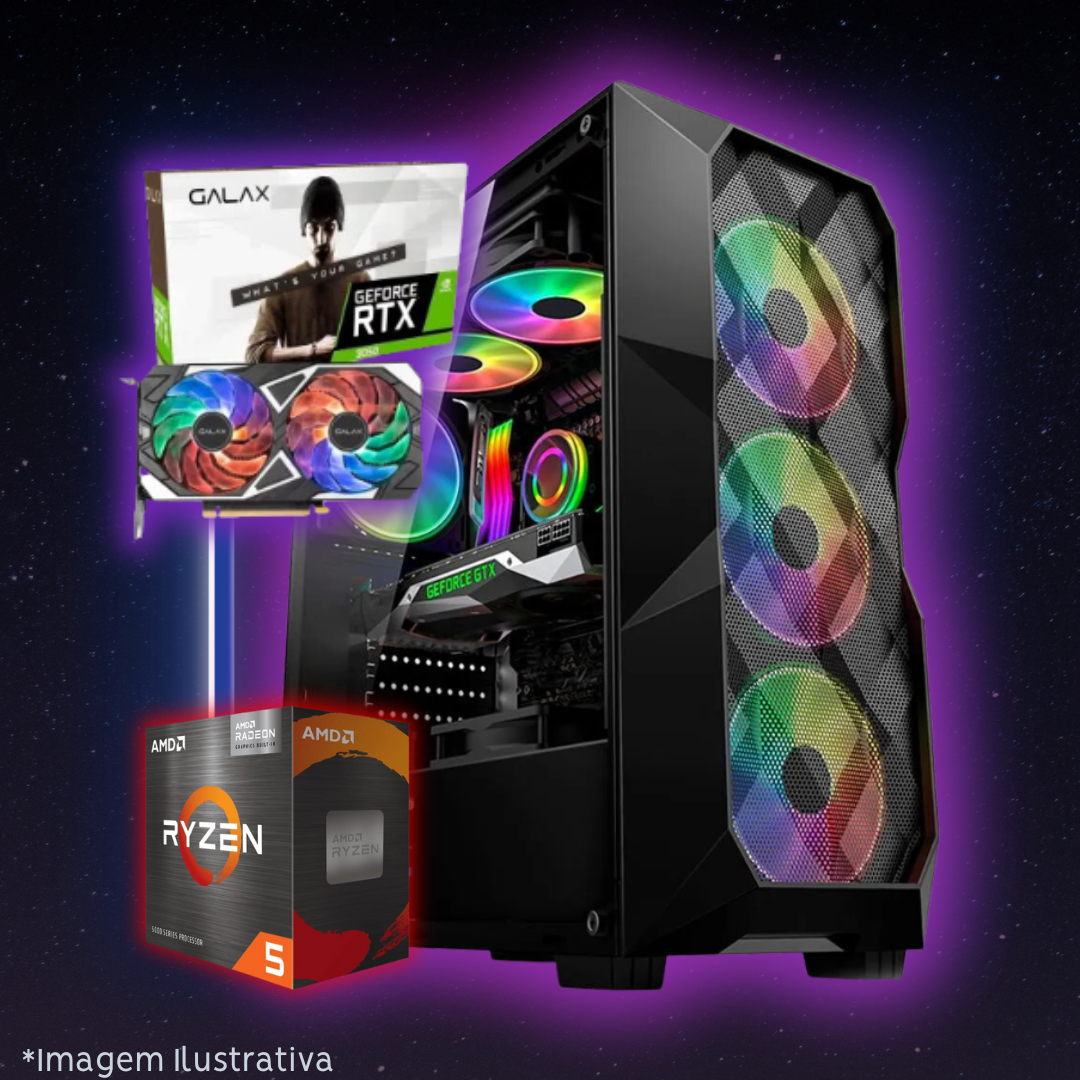
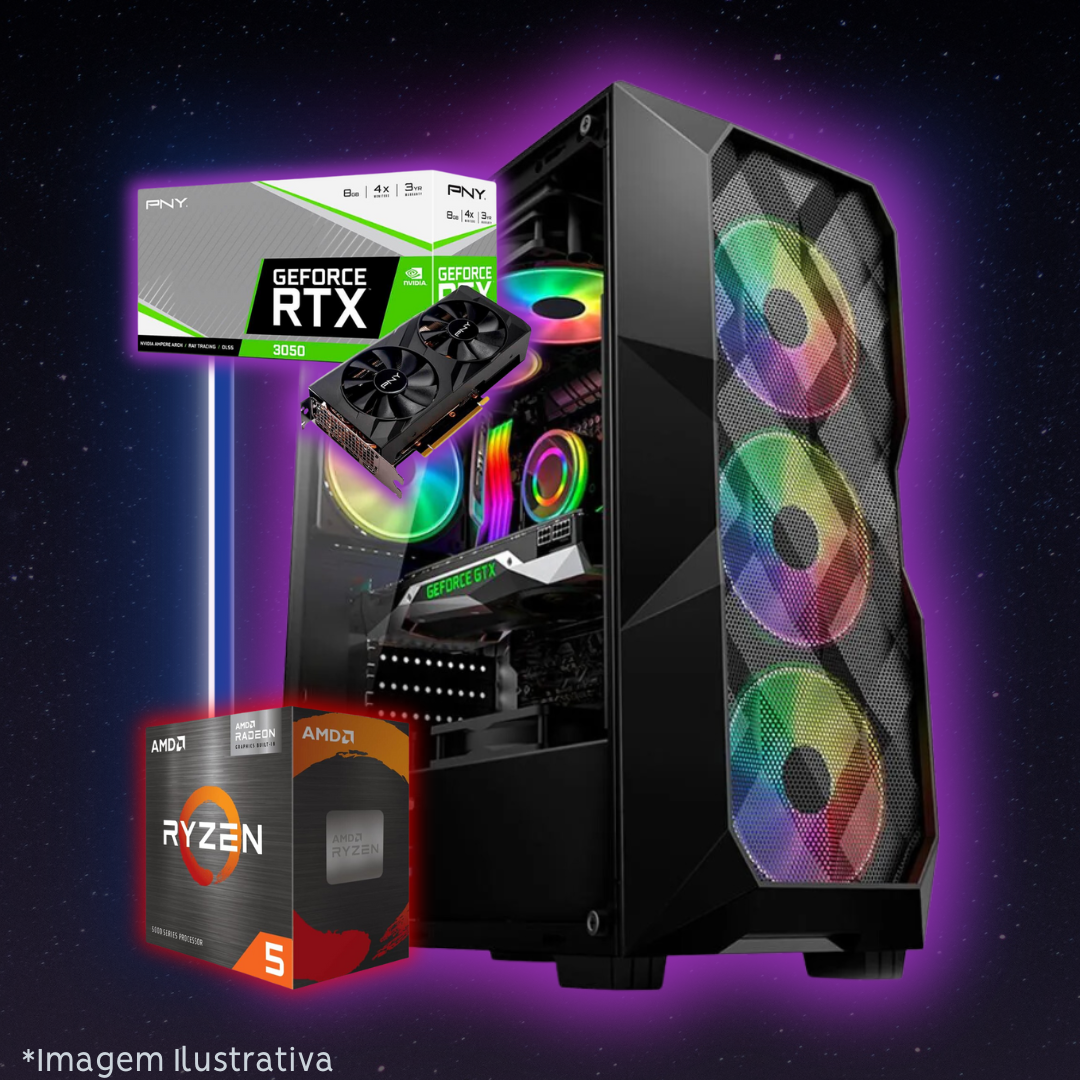
Updating PC Gamer i5 Photos and Cabinet

Changed region(s): [[0.0917, 0.1222, 0.5194, 0.5194]]

diff --git a/src/routes/pc_gamer/+page.svelte b/src/routes/pc_gamer/+page.svelte
@@ -10,17 +10,17 @@
     {
       title: "SETUP COMPLETO R$1.690,00",
       image: "kit1690.png",
-      text: "💥 LEAGUE OF LEGENDS\n🌎 MINECRAFT\n🟥 ROBLOX\n\n*Processador:* I5 de 3ª Geração\n*Memória RAM:* 8GB DDR3\n*Armazenamento:* SSD 256GB\n*Gabinete:* GAMER TGT C/DUAS FANS\n*Fonte:* 500W\n\n +*KIT GAMER:* 🖥 MONITOR SEMINOVO 19' POLEGADAS, ⌨ TECLADO, 🖱 MOUSE, MOUSEPAD 🎧 HEADSET\n\n*R$ 1.690,00* em até 10x sem juros!",
+      text: "💥 LEAGUE OF LEGENDS\n🌎 MINECRAFT\n🟥 ROBLOX\n\n*Processador:* I5 de 3ª Geração\n*Memória RAM:* 8GB DDR3\n*Armazenamento:* SSD 256GB\n*Gabinete:* GAMER BLUECASE C/ LED RGB Controlável\n*Fonte:* 500W\n\n +*KIT GAMER:* 🖥 MONITOR SEMINOVO 19' POLEGADAS, ⌨ TECLADO, 🖱 MOUSE, MOUSEPAD 🎧 HEADSET\n\n*R$ 1.690,00* em até 10x sem juros!",
     },
     {
       title: "i5 3ª + RX 550 - R$1.790,00",
       image: "i5-3.png",
-      text: "💥 LEAGUE OF LEGENDS\n🌎 MINECRAFT\n🟥 ROBLOX\n🚔 GTA RP\n🔫 CSGO/VALORANT\n\n*Processador:* I5 de 3ª Geração\n*Memória RAM:* 8GB DDR3\n*Placa de Vídeo:* RX 550 4GB\n*Armazenamento:* SSD 256GB\n*Gabinete:* GAMER TGT C/DUAS FANS\n*Fonte:* 500W\n\n*R$ 1.790,00* em até 10x sem juros!",
+      text: "💥 LEAGUE OF LEGENDS\n🌎 MINECRAFT\n🟥 ROBLOX\n🚔 GTA RP\n🔫 CSGO/VALORANT\n\n*Processador:* I5 de 3ª Geração\n*Memória RAM:* 8GB DDR3\n*Placa de Vídeo:* RX 550 4GB\n*Armazenamento:* SSD 256GB\n*Gabinete:* GAMER BLUECASE C/ LED RGB Controlável\n*Fonte:* 500W\n\n*R$ 1.790,00* em até 10x sem juros!",
     },
     {
       title: "SETUP i5 3ª + RX 550 - R$2.290,00",
       image: "kit1690.png",
-      text: "💥 LEAGUE OF LEGENDS\n🌎 MINECRAFT\n🟥 ROBLOX\n 🚔 GTA RP\n🔫 CSGO/VALORANT\n\n*Processador:* I5 de 3ª Geração\n*Memória RAM:* 8GB DDR3\n*Placa de Vídeo:* RX 550 4GB\n*Armazenamento:* SSD 256GB\n*Gabinete:* GAMER TGT C/DUAS FANS\n*Fonte:* 500W\n\n +*KIT GAMER:* 🖥 MONITOR SEMINOVO 19' POLEGADAS, ⌨ TECLADO, 🖱 MOUSE, MOUSEPAD E 🎧 HEADSET\n\n*R$ 2.290,00* em até 10x sem juros!",
+      text: "💥 LEAGUE OF LEGENDS\n🌎 MINECRAFT\n🟥 ROBLOX\n 🚔 GTA RP\n🔫 CSGO/VALORANT\n\n*Processador:* I5 de 3ª Geração\n*Memória RAM:* 8GB DDR3\n*Placa de Vídeo:* RX 550 4GB\n*Armazenamento:* SSD 256GB\n*Gabinete:* GAMER BLUECASE C/ LED RGB Controlável\n*Fonte:* 500W\n\n +*KIT GAMER:* 🖥 MONITOR SEMINOVO 19' POLEGADAS, ⌨ TECLADO, 🖱 MOUSE, MOUSEPAD E 🎧 HEADSET\n\n*R$ 2.290,00* em até 10x sem juros!",
     },
     {
       title: "(PC0001)GAMER RYZEN 5600G",
@@ -35,12 +35,12 @@
     {
       title: "GAMER I7 3 GERAÇÃO",
       image: "i5-3.png",
-      text: "💥 LEAGUE OF LEGENDS\n🌎 MINECRAFT\n🔫 VALORANT (50/70FPS)\n\n*Processador:* i7 3ª GERAÇÃO\n*Memória RAM:* 8GB DDR3\n*Armazenamento:* SSD 256GB\n*Gabinete:* GAMER TGT C/DUAS FANS\n*Fonte:* 500W\n\n*R$ 1.490,00* em até 10x sem juros!",
+      text: "💥 LEAGUE OF LEGENDS\n🌎 MINECRAFT\n🔫 VALORANT (50/70FPS)\n\n*Processador:* i7 3ª GERAÇÃO\n*Memória RAM:* 8GB DDR3\n*Armazenamento:* SSD 256GB\n*Gabinete:* GAMER BLUECASE C/ LED RGB Controlável\n*Fonte:* 500W\n\n*R$ 1.490,00* em até 10x sem juros!",
     },
     {
       title: "i7 + GPU + PERIFÉRICOS",
       image: "kit1690.png",
-      text: "💥 LEAGUE OF LEGENDS\n🌎 MINECRAFT\n🟥 ROBLOX\n 🚔 GTA RP\n🔫 CSGO/VALORANT\n\n*Processador:* I7 de 3ª Geração\n*Memória RAM:* 8GB DDR3\n*Placa de Vídeo:* RX 550 4GB\n*Armazenamento:* SSD 256GB\n*Gabinete:* GAMER TGT C/DUAS FANS\n*Fonte:* 500W\n\n +*KIT GAMER:* 🖥 MONITOR SEMINOVO 19' POLEGADAS, ⌨ TECLADO, 🖱 MOUSE, MOUSEPAD E 🎧 HEADSET\n\n*R$ 2.590,00* em até 10x sem juros!",
+      text: "💥 LEAGUE OF LEGENDS\n🌎 MINECRAFT\n🟥 ROBLOX\n 🚔 GTA RP\n🔫 CSGO/VALORANT\n\n*Processador:* I7 de 3ª Geração\n*Memória RAM:* 8GB DDR3\n*Placa de Vídeo:* RX 550 4GB\n*Armazenamento:* SSD 256GB\n*Gabinete:* GAMER BLUECASE C/ LED RGB Controlável\n*Fonte:* 500W\n\n +*KIT GAMER:* 🖥 MONITOR SEMINOVO 19' POLEGADAS, ⌨ TECLADO, 🖱 MOUSE, MOUSEPAD E 🎧 HEADSET\n\n*R$ 2.590,00* em até 10x sem juros!",
     },
     {
       title: "RYZEN 4500 + GTX 1650",
